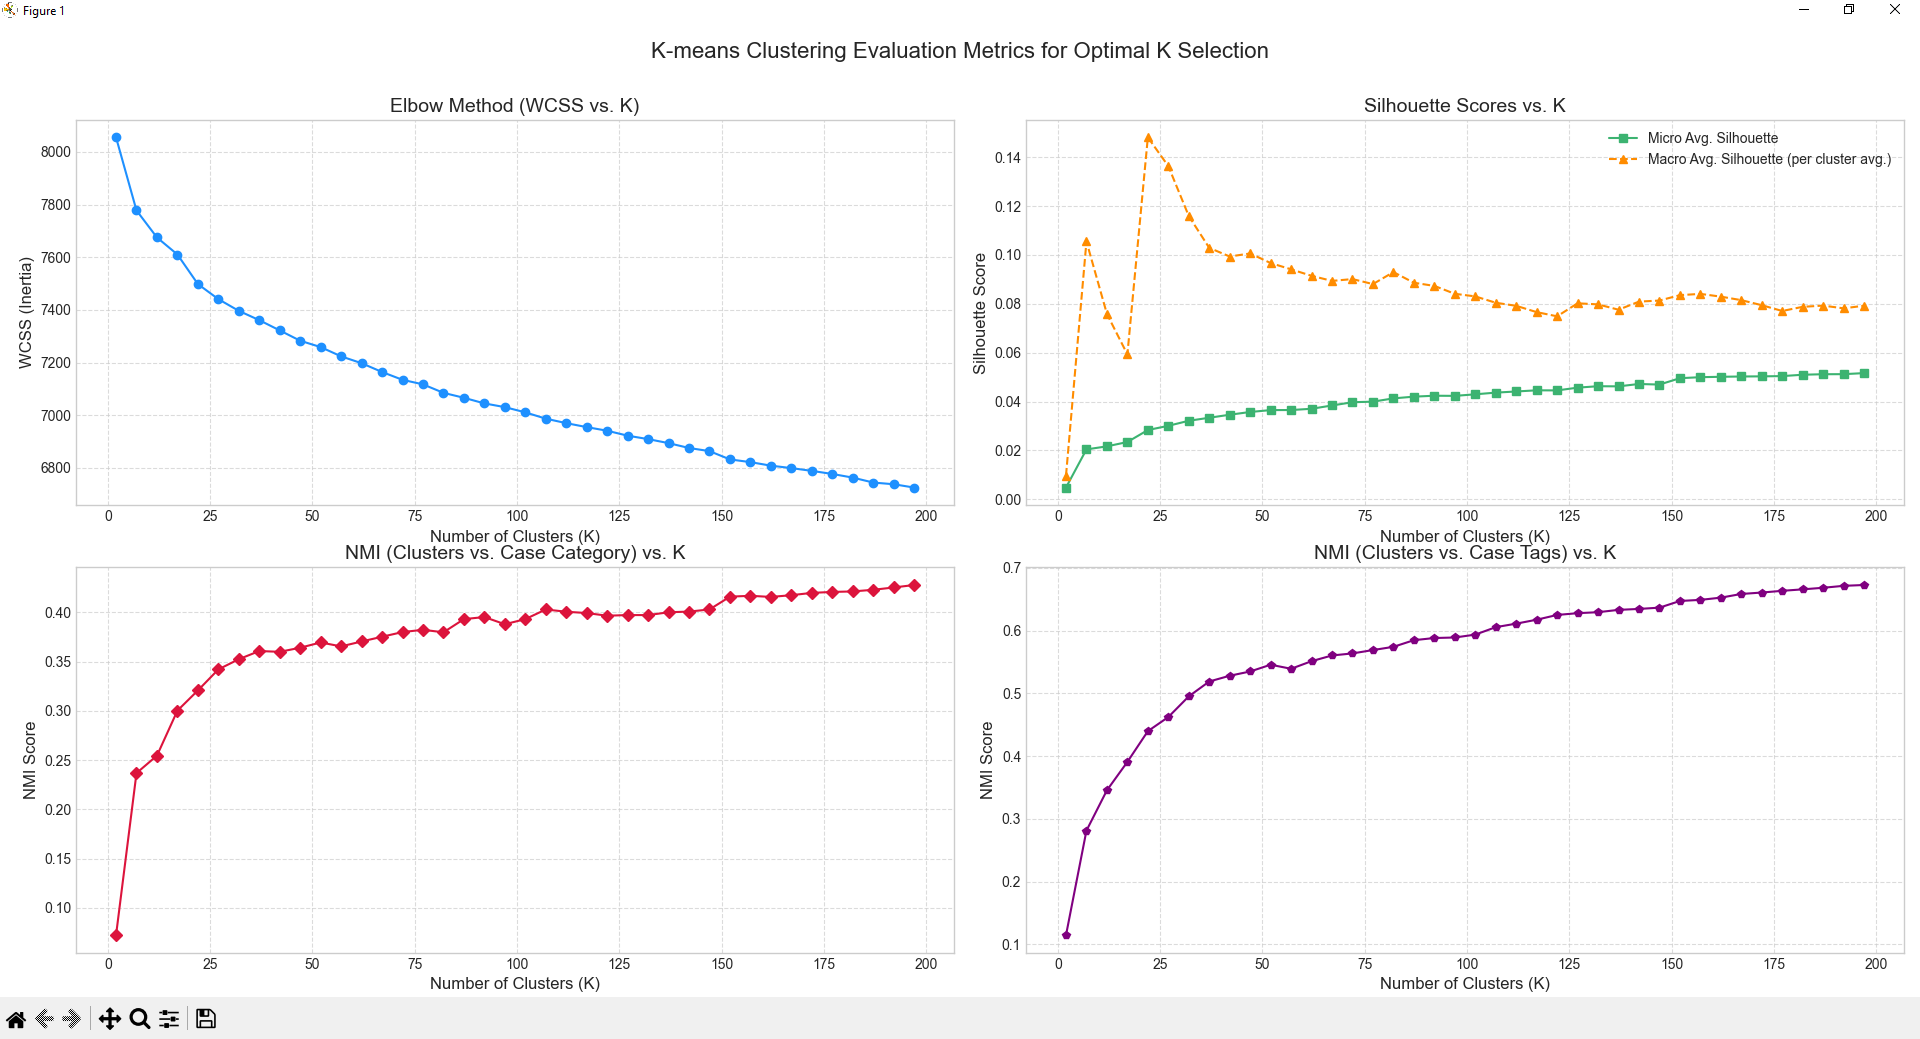
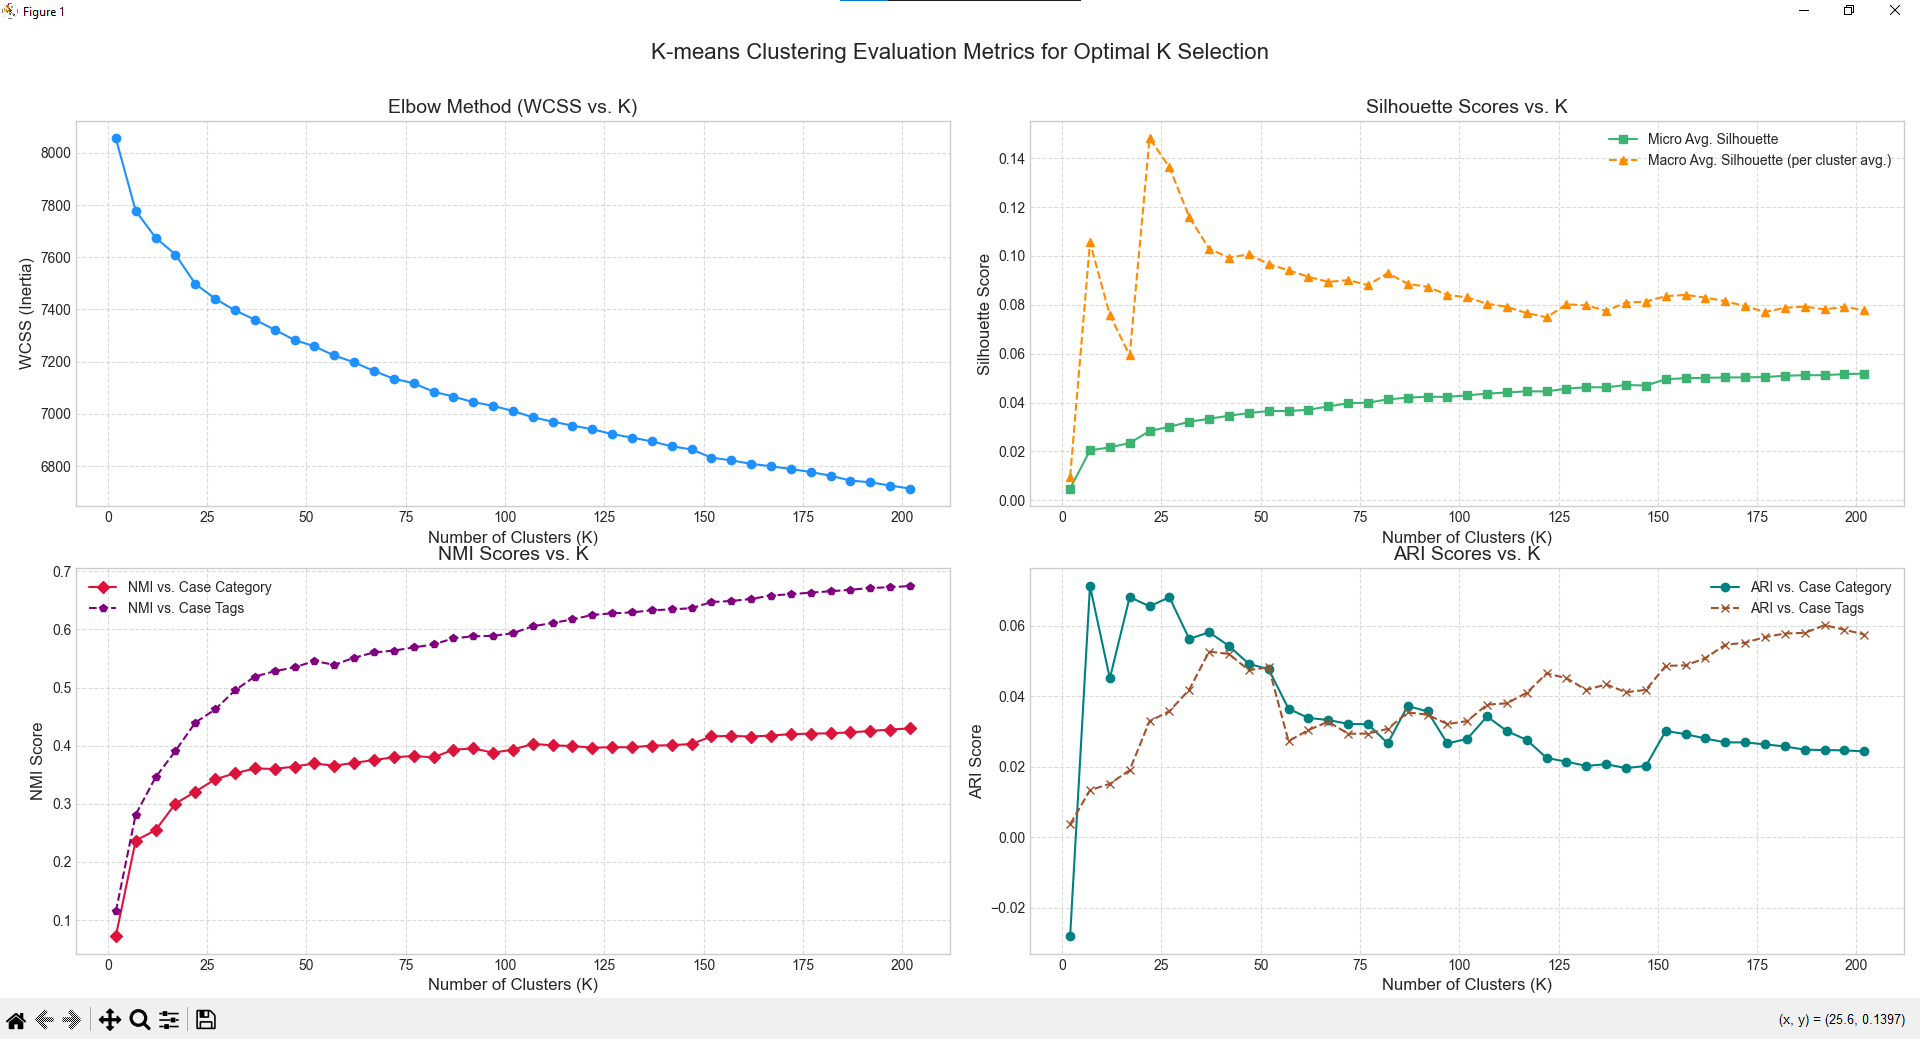
finished the implementation, heading to analysis

diff --git a/merosB2/ii/k_chooser.py b/merosB2/ii/k_chooser.py
@@ -11,14 +11,13 @@ import warnings
 warnings.simplefilter(action='ignore', category=FutureWarning)
 
 # --- Configuration ---
-TEXT_COLUMN_TO_USE = 'text'  # 'summary' or 'text'
+TEXT_COLUMN_TO_USE = 'summary'  # 'summary' or 'text'
 # Using 'summary' as it's generally cleaner and less computationally intensive
-# The assignment states: "κείμενα των αποφάσεων (ή των περιλήψεων τους)"
 
 VECTORIZATION_METHOD = 'tfidf' # TF-IDF is a common choice for K-means
-MIN_K_TO_TEST = 15           # Minimum K value to test
-MAX_K_TO_TEST = 25         # Range of K values to test (e.g., 2 to 100)
-K_STEP = 1                  # Step for K values
+MIN_K_TO_TEST = 2           # Minimum K value to test
+MAX_K_TO_TEST = 202         # Range of K values to test (e.g., 2 to 100)
+K_STEP = 5                  # Step for K values
 RANDOM_STATE = 42           # For reproducibility
 
 def load_and_prepare_data():
@@ -57,16 +56,8 @@ def load_and_prepare_data():
 
     print(f"\nDataFrame created. Shape: {df.shape}")
     
-    # Fill NaN in the text column to be used for vectorization
     df[TEXT_COLUMN_TO_USE] = df[TEXT_COLUMN_TO_USE].fillna('')
     
-    # For NMI, case_category and case_tags are used. NaNs in these will be handled during NMI calculation.
-    # Ensure case_tags are strings if they are to be used directly for NMI
-    # If case_tags can be lists, they need to be converted to a hashable, comparable format (e.g., sorted tuple of strings)
-    # Based on EDA, case_tags are initially objects (likely strings representing combined tags)
-    # df['case_tags'] = df['case_tags'].apply(lambda x: tuple(sorted(x)) if isinstance(x, list) else x)
-    # No, the EDA showed that the original string form of case_tags is what we need for NMI.
-    # df.info() showed case_tags as object, and describe() showed unique string combinations.
 
     return df
 
@@ -74,21 +65,16 @@ def vectorize_texts(texts_series, method='tfidf'):
     """Vectorizes texts using the specified method."""
     print(f"\nVectorizing texts using {method} on '{TEXT_COLUMN_TO_USE}' column...")
     if method == 'tfidf':
-        # Common TF-IDF parameters; can be tuned further
+
         vectorizer = TfidfVectorizer(
-            max_df=0.90,  # Ignore terms that appear in more than 90% of documents
-            min_df=5,     # Ignore terms that appear in less than 5 documents
-            ngram_range=(1, 2),  # Consider unigrams and bigrams
-            stop_words=None # No standard Greek stop words in sklearn; could add custom list
+            max_df=0.90,  
+            min_df=5,     
+            ngram_range=(1, 2), 
+            stop_words=None 
         )
         X = vectorizer.fit_transform(texts_series)
         print(f"TF-IDF matrix shape: {X.shape}")
         return X, vectorizer
-    # Add other methods like Word2Vec, FastText, GloVe if needed, similar to B1
-    # elif method == 'dense_embeddings':
-    #     # Placeholder for dense embeddings logic
-    #     print("Dense embeddings not implemented in this script version.")
-    #     return None, None
     else:
         raise ValueError(f"Unsupported vectorization method: {method}")
 
@@ -110,8 +96,8 @@ def run_kmeans_and_evaluate(X, df, min_k, max_k, k_step):
     silhouette_scores_macro = []
     nmi_category_scores = []
     nmi_tags_scores = []
-    ari_category_scores = [] # New: For ARI with case_category
-    ari_tags_scores = []   # New: For ARI with case_tags
+    ari_category_scores = [] 
+    ari_tags_scores = []   
 
     true_labels_category_full = df['case_category']
     true_labels_tags_full = df['case_tags'] 
@@ -146,7 +132,7 @@ def run_kmeans_and_evaluate(X, df, min_k, max_k, k_step):
                 cluster_labels[valid_indices_category]
             )
             nmi_category_scores.append(nmi_cat)
-            ari_cat = adjusted_rand_score( # Calculate ARI for category
+            ari_cat = adjusted_rand_score( 
                 true_labels_category_full[valid_indices_category],
                 cluster_labels[valid_indices_category]
             )
@@ -162,7 +148,7 @@ def run_kmeans_and_evaluate(X, df, min_k, max_k, k_step):
                 cluster_labels[valid_indices_tags]
             )
             nmi_tags_scores.append(nmi_tag)
-            ari_tag = adjusted_rand_score( # Calculate ARI for tags
+            ari_tag = adjusted_rand_score( 
                 true_labels_tags_full[valid_indices_tags],
                 cluster_labels[valid_indices_tags]
             )
@@ -221,7 +207,6 @@ def plot_evaluation_metrics(k_values, wcss, s_micro, s_macro, nmi_cat, nmi_tag, 
     plt.tight_layout(rect=[0, 0, 1, 0.96]) 
     plt.show()
 
-    # Removed the printed comments on K selection from here
 
 def main():
     """Main function to orchestrate the K-means analysis."""

diff --git a/merosB2/iii/LLM_category_title_extraction.py b/merosB2/iii/LLM_category_title_extraction.py
@@ -111,7 +111,6 @@ def call_actual_llm(prompt_text: str) -> str:
         theme_content = "Mock: Σχετικά με " + ", ".join(keywords[:2]) if keywords else "Mock: Γενικό θέμα"
         return f"Θέμα:\n\"{theme_content}\"" # Return raw mock response in expected LLM format, with quotes
 
-    model_to_use = "google/gemma-3-4b-it:free"
     effective_system_prompt = (
         "Είσαι ένας βοηθός που εξάγει το κεντρικό θέμα από τα παρεχόμενα κείμενα. "
         "Απάντησε ΜΟΝΟ με το θέμα ακολουθώντας τη μορφή <ο τίτλος>, Για παραδειγμα: "
@@ -127,7 +126,6 @@ def call_actual_llm(prompt_text: str) -> str:
         raw_response = send_message_to_llm(
             user_message=prompt_text,
             system_message=effective_system_prompt,
-            model=model_to_use
         )
         
         if raw_response: 
@@ -218,8 +216,6 @@ def parse_llm_response(raw_llm_output: str) -> str:
     if cleaned_theme == raw_llm_output and (cleaned_theme.startswith("Θέμα:") or cleaned_theme.lower().startswith("θέμα:")):
         return f"Σφάλμα ανάλυσης LLM (αμετάβλητο): {cleaned_theme[:70]}"
 
-    # Return the cleaned theme text directly, without adding extra quotes.
-    # Pandas to_csv will handle CSV quoting.
     return cleaned_theme
 
 

diff --git a/merosB2/llm_utils.py b/merosB2/llm_utils.py
@@ -3,29 +3,27 @@ import json
 from openai import OpenAI
 from dotenv import load_dotenv, find_dotenv
 
-# Explicitly find and load .env file, overriding existing environment variables
-dotenv_path = find_dotenv(raise_error_if_not_found=False) # Try to find .env
+
+dotenv_path = find_dotenv(raise_error_if_not_found=False) 
 print(f"Found .env file at: {dotenv_path}")
 
-# Print API key from environment BEFORE loading .env (if it exists)
 api_key_before_load = os.getenv("OPENROUTER_API_KEY")
 
 if dotenv_path:
     load_dotenv(dotenv_path=dotenv_path, override=True)
     print(f"Loaded .env file from: {dotenv_path} with override=True")
 else:
-    # Fallback to default load_dotenv behavior if find_dotenv fails, though it should find it if it's in the root
+
     load_dotenv(override=True)
     print("Could not specifically locate .env, attempting default load_dotenv(override=True)")
 
 
-# Get API key from environment variable AFTER loading .env
 api_key = os.getenv("OPENROUTER_API_KEY")
 
-# Initialize the OpenAI client with OpenRouter endpoint
+
 client = OpenAI(
     base_url="https://openrouter.ai/api/v1",
-    api_key=api_key, # Use the loaded api_key variable
+    api_key=api_key,
 )
 
 # Available models with fallbacks

diff --git a/merosB2/ii/kmeans_final.py b/merosB2/ii/kmeans_final.py
@@ -11,7 +11,7 @@ CHOSEN_K = 21  # <--- !!! SET YOUR CHOSEN K HERE !!! (e.g., based on k_chooser.p
 TEXT_COLUMN_TO_USE = 'summary'  # 'summary' or 'text'
 VECTORIZATION_METHOD = 'tfidf' # TF-IDF
 RANDOM_STATE = 42           # For reproducibility
-# Construct the output path relative to the script's directory
+
 SCRIPT_DIR = os.path.dirname(os.path.abspath(__file__))
 OUTPUT_CSV_FILE = os.path.join(SCRIPT_DIR, '..', 'documents_with_clusters.csv') # File to save results
 
@@ -106,10 +106,8 @@ def main():
 
     df_with_clusters, kmeans_model = run_final_kmeans(X, df_original, CHOSEN_K)
 
-    # Save the DataFrame with cluster assignments
+
     try:
-        # Ensure the directory exists if it's not the current one
-        # os.path.normpath will resolve ".." components if OUTPUT_CSV_FILE is absolute
         output_path_normalized = os.path.normpath(OUTPUT_CSV_FILE)
         output_dir = os.path.dirname(output_path_normalized)
         if output_dir and not os.path.exists(output_dir):

diff --git a/merosB1/iii/main_XgBoost.py b/merosB1/iii/main_XgBoost.py
@@ -70,7 +70,6 @@ def main_xgboost_word2vec(): # Renaming to main_xgboost_w2v for consistency if p
         'max_depth': XGB_MAX_DEPTH,
         'eval_metric': XGB_EVAL_METRIC,
         'random_state': RANDOM_STATE,
-        # 'use_label_encoder': XGB_USE_LABEL_ENCODER # Not needed for XGBoost >= 1.3.0 if y is int
     }
 
     script_dir = os.path.dirname(os.path.abspath(__file__))

diff --git a/merosB1/ii/main_LogRegr_W2V.py b/merosB1/ii/main_LogRegr_W2V.py
@@ -53,7 +53,6 @@ def main_logregr_word2vec():
             'workers': WORD2VEC_WORKERS,
             'sg': WORD2VEC_SG,
             'epochs': WORD2VEC_EPOCHS
-            # 'seed' will be handled by run_experiment for reproducibility
         }
     }
     

diff --git a/merosB1/i/main_SVM_BoW.py b/merosB1/i/main_SVM_BoW.py
@@ -82,7 +82,6 @@ def main_svm_bow():
         print("Failed to load or preprocess data. Exiting.")
         return
 
-    # Run the experiment
     success = run_experiment(
         texts_to_process=texts_proc,
         labels_to_process=labels_proc,
